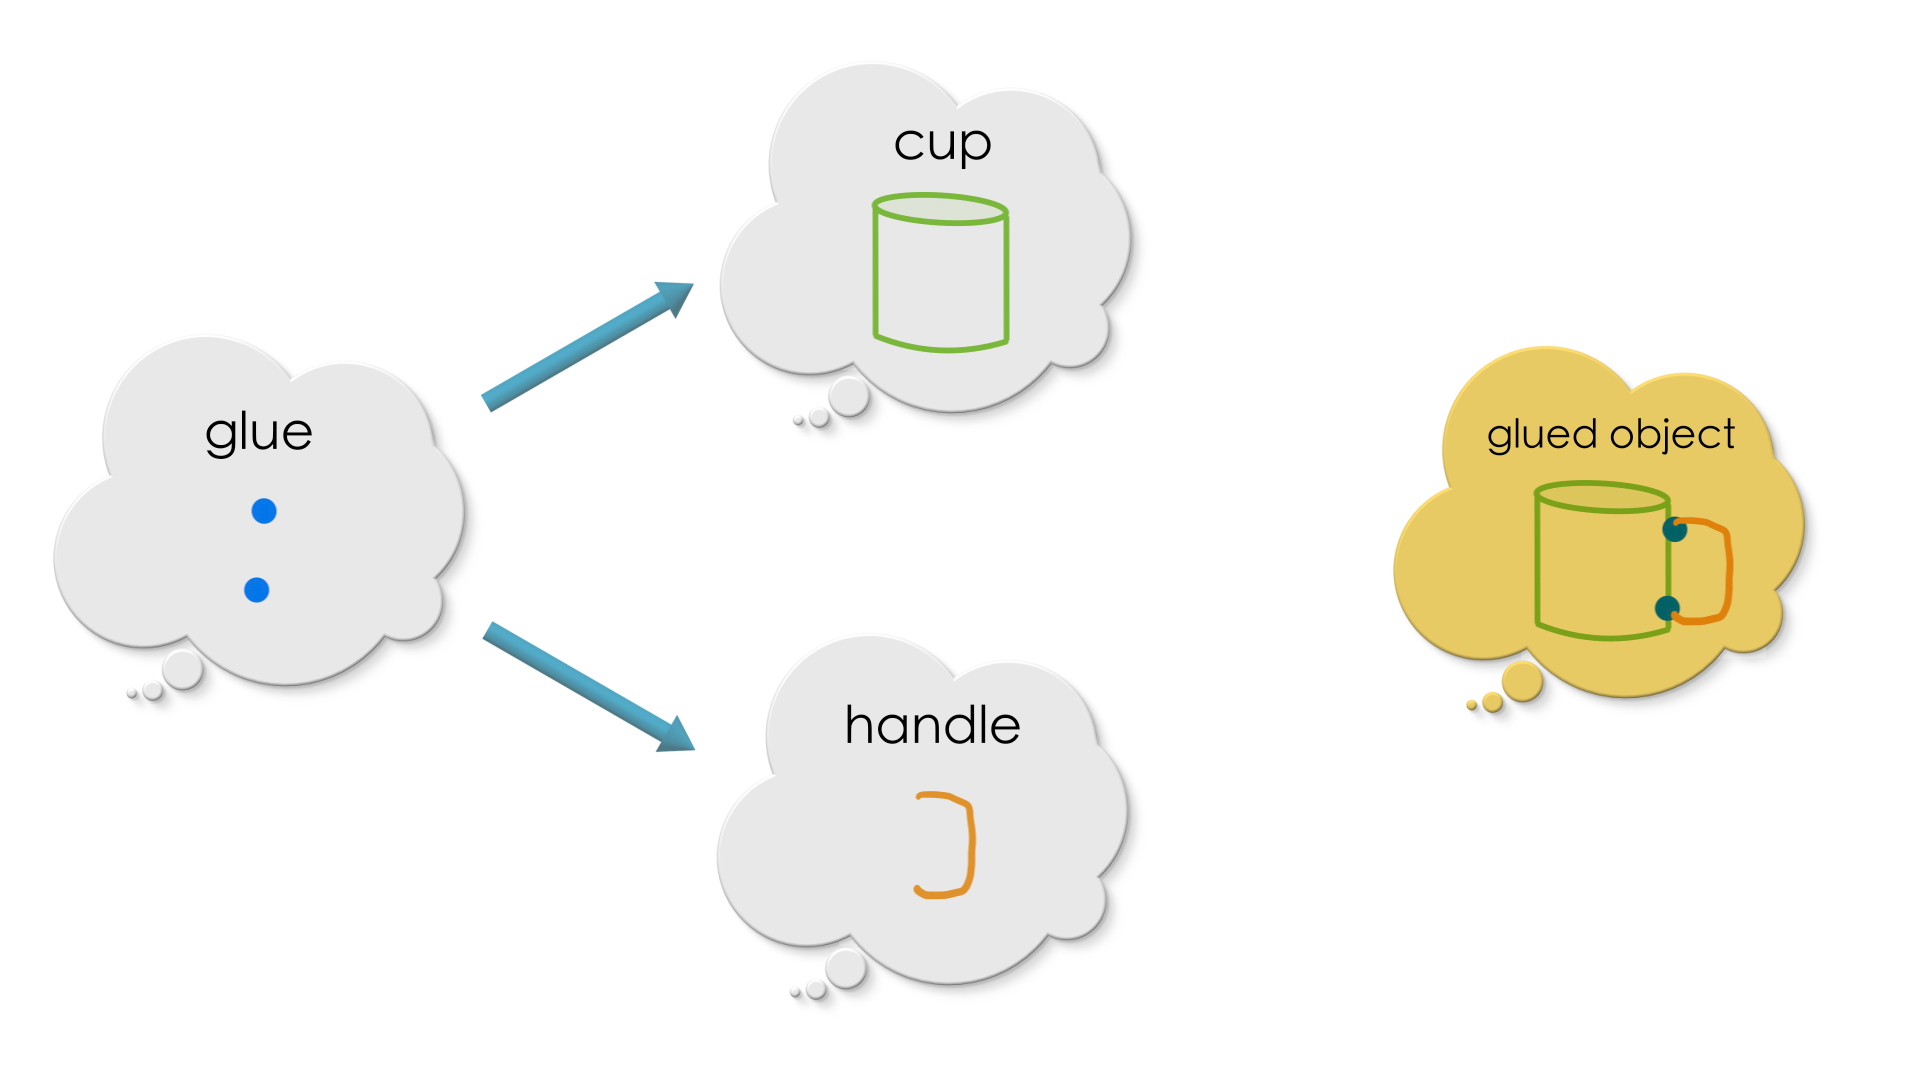
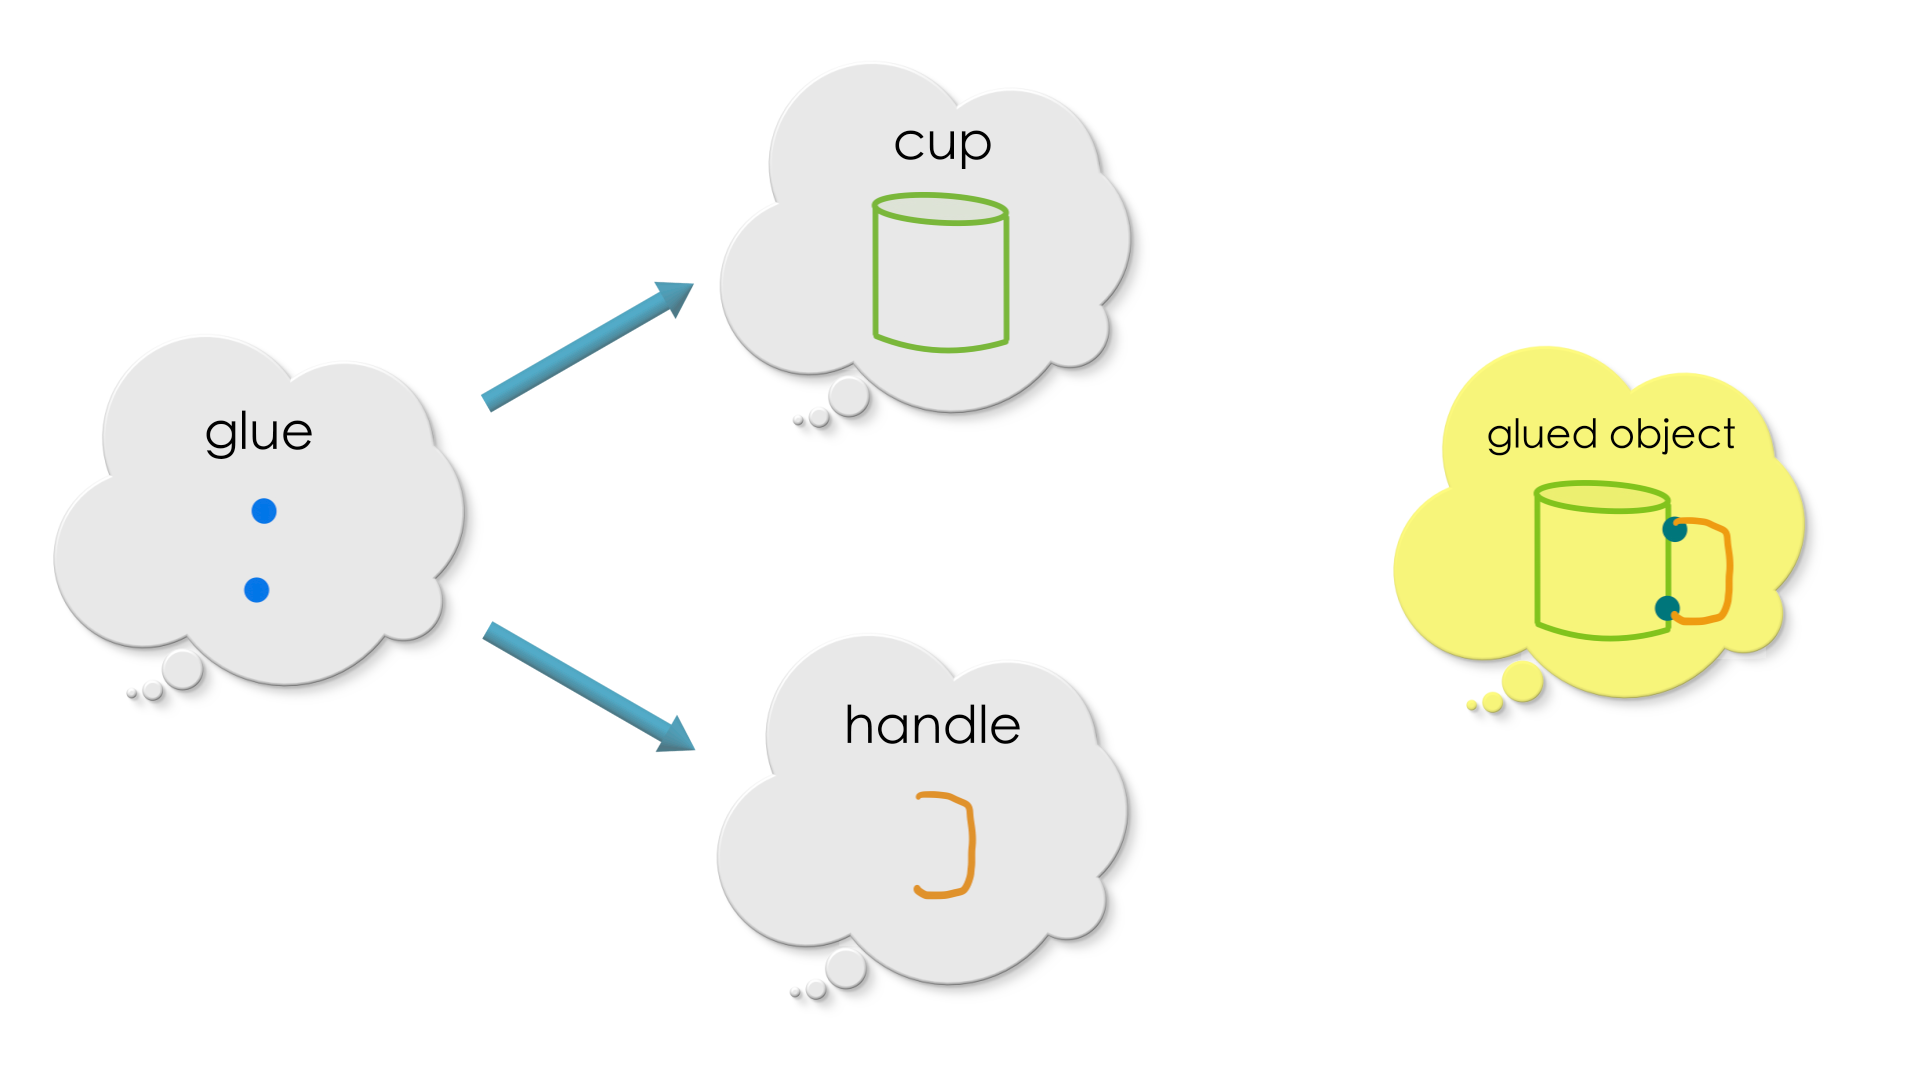
Polishing some of the graphics

Changed region(s): [[0.7188, 0.3056, 0.9375, 0.6722]]

diff --git a/chp5-graph-gluing.md b/chp5-graph-gluing.md
@@ -187,9 +187,9 @@ Which of these is the correct way to identify Graph-1 inside the combined graph,
 
 The answer is that, "Well, irrespective of the path, Graph-1 IS EXPECTED TO be indentified precisely in the same region in the pushout because it's the overlap." The region in which it is mapped into is common to both Graph-2 and Graph-3 in the pushout. 
 
-```{image} assets/Ch5/glued-object.jpeg
+```{image} assets/Ch5/GluedObject.png
 :alt: Whoopsy!
-:width: 150px
+:width: 250px
 :align: center
 ```
 
